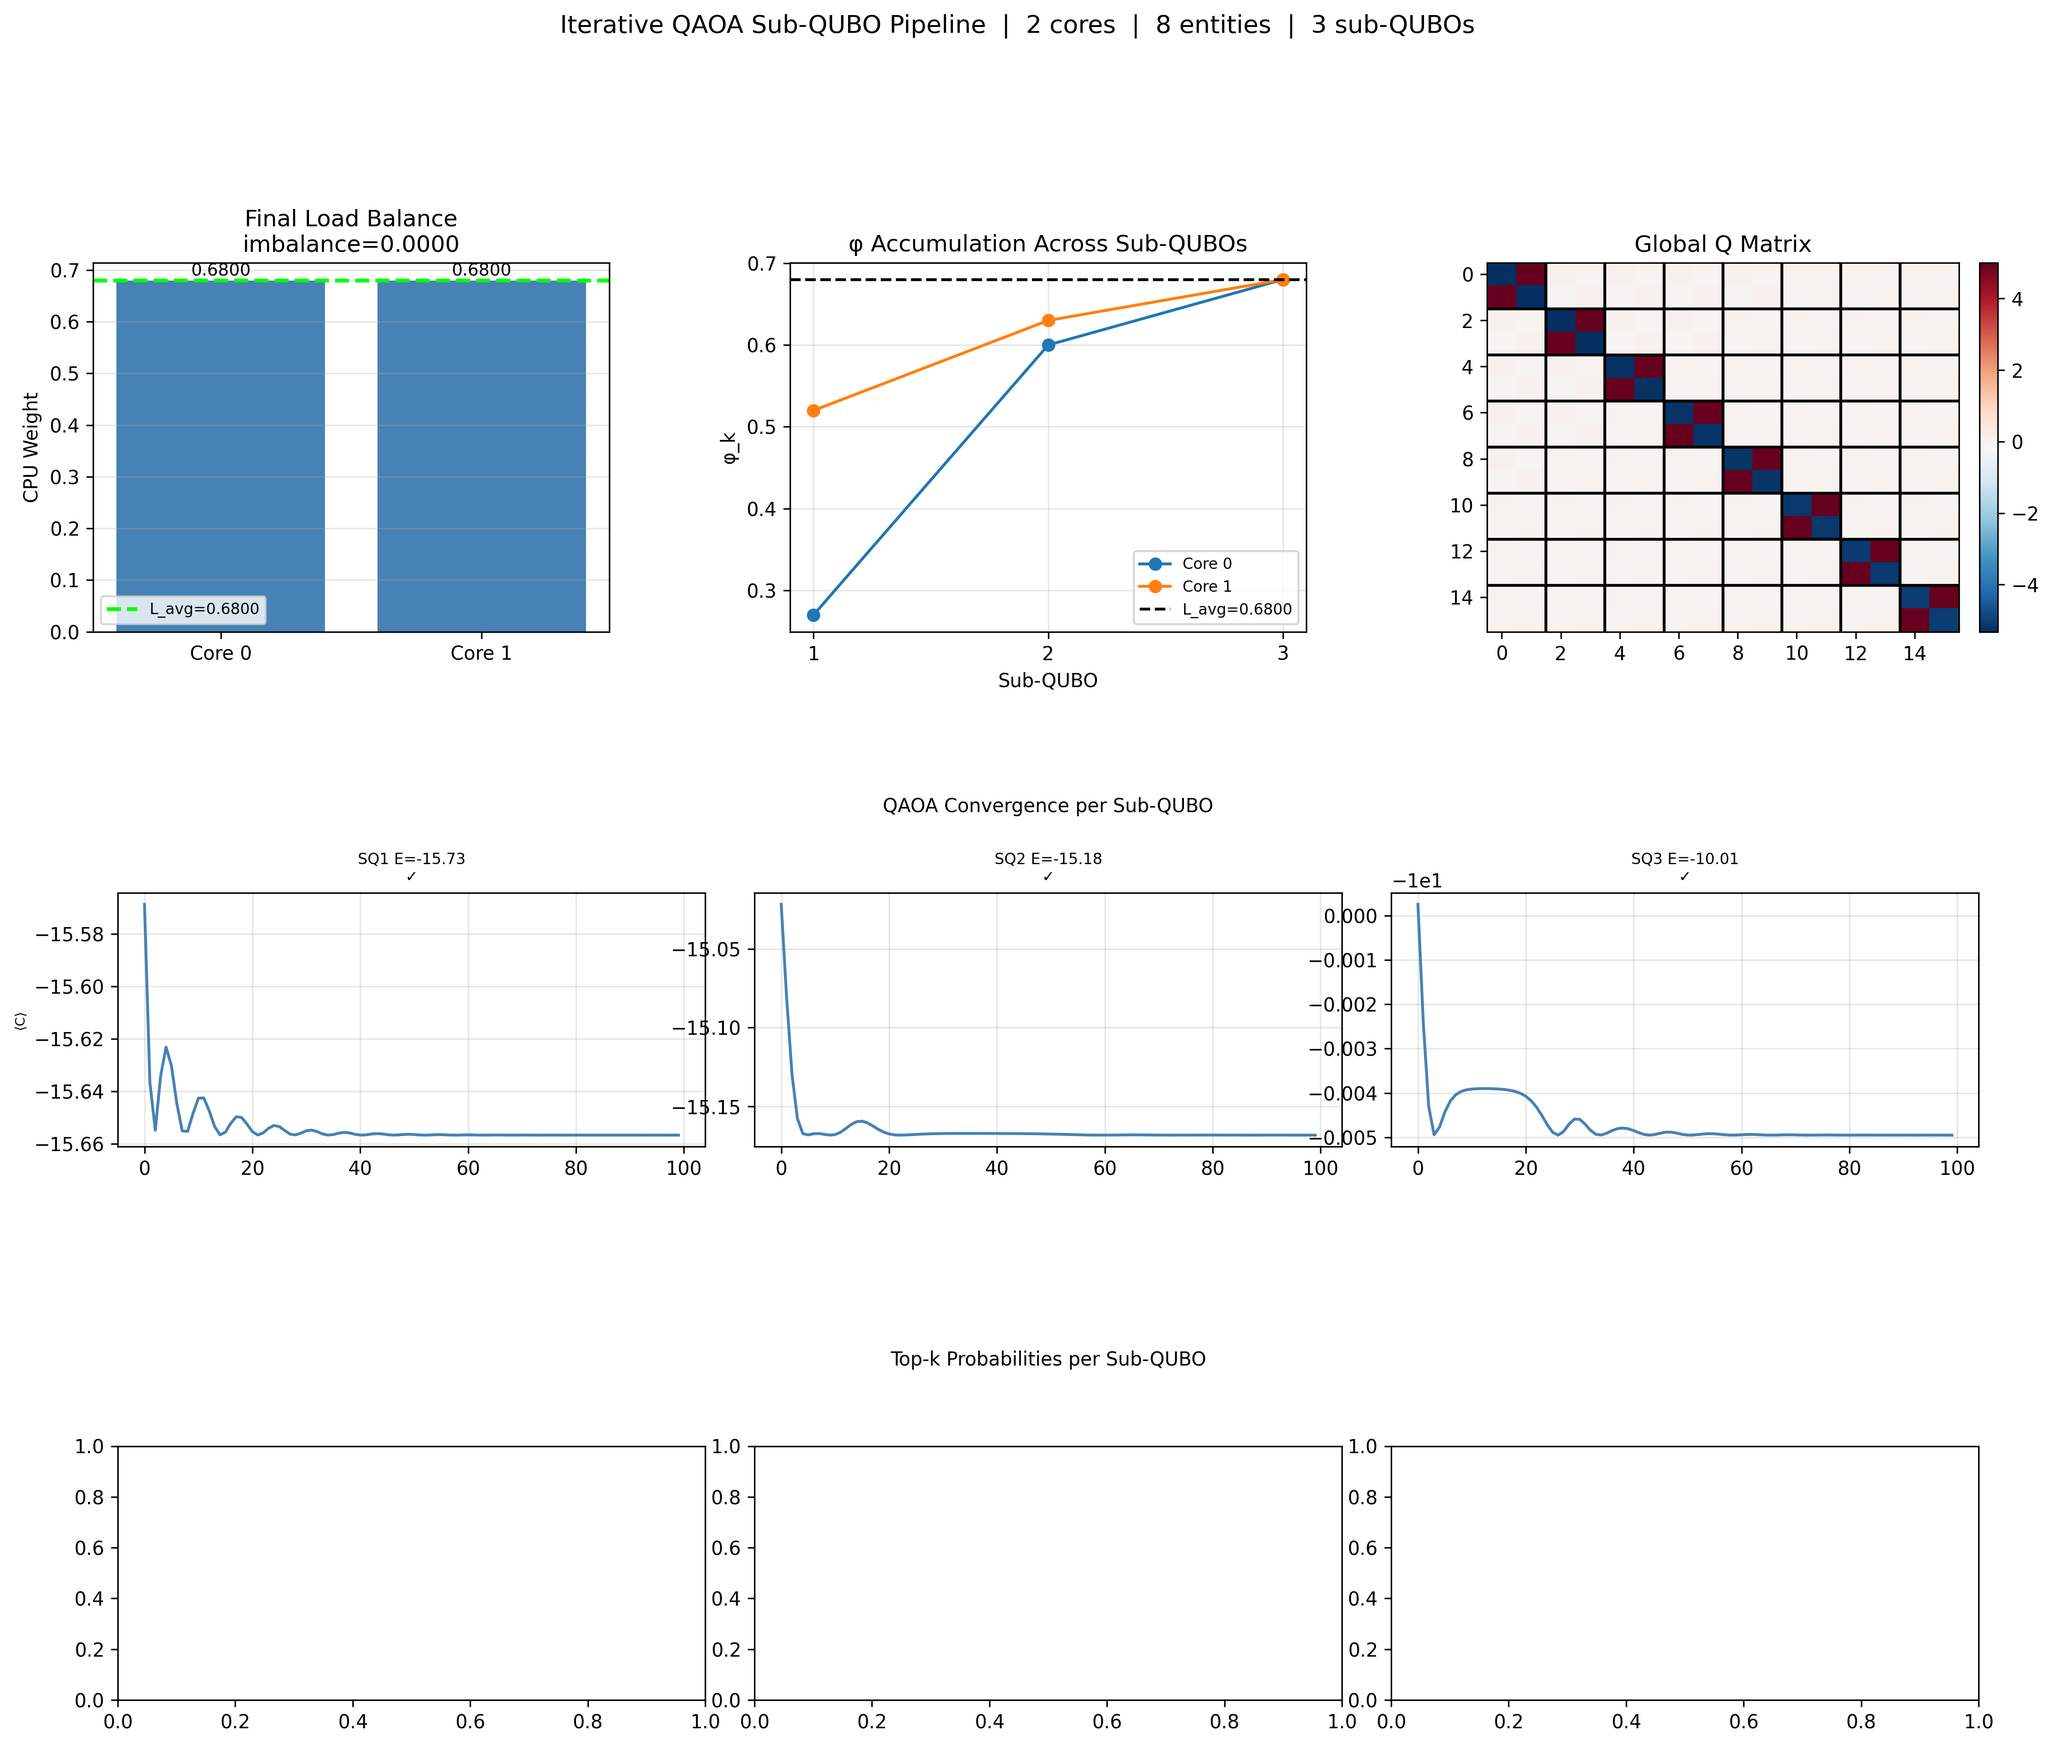
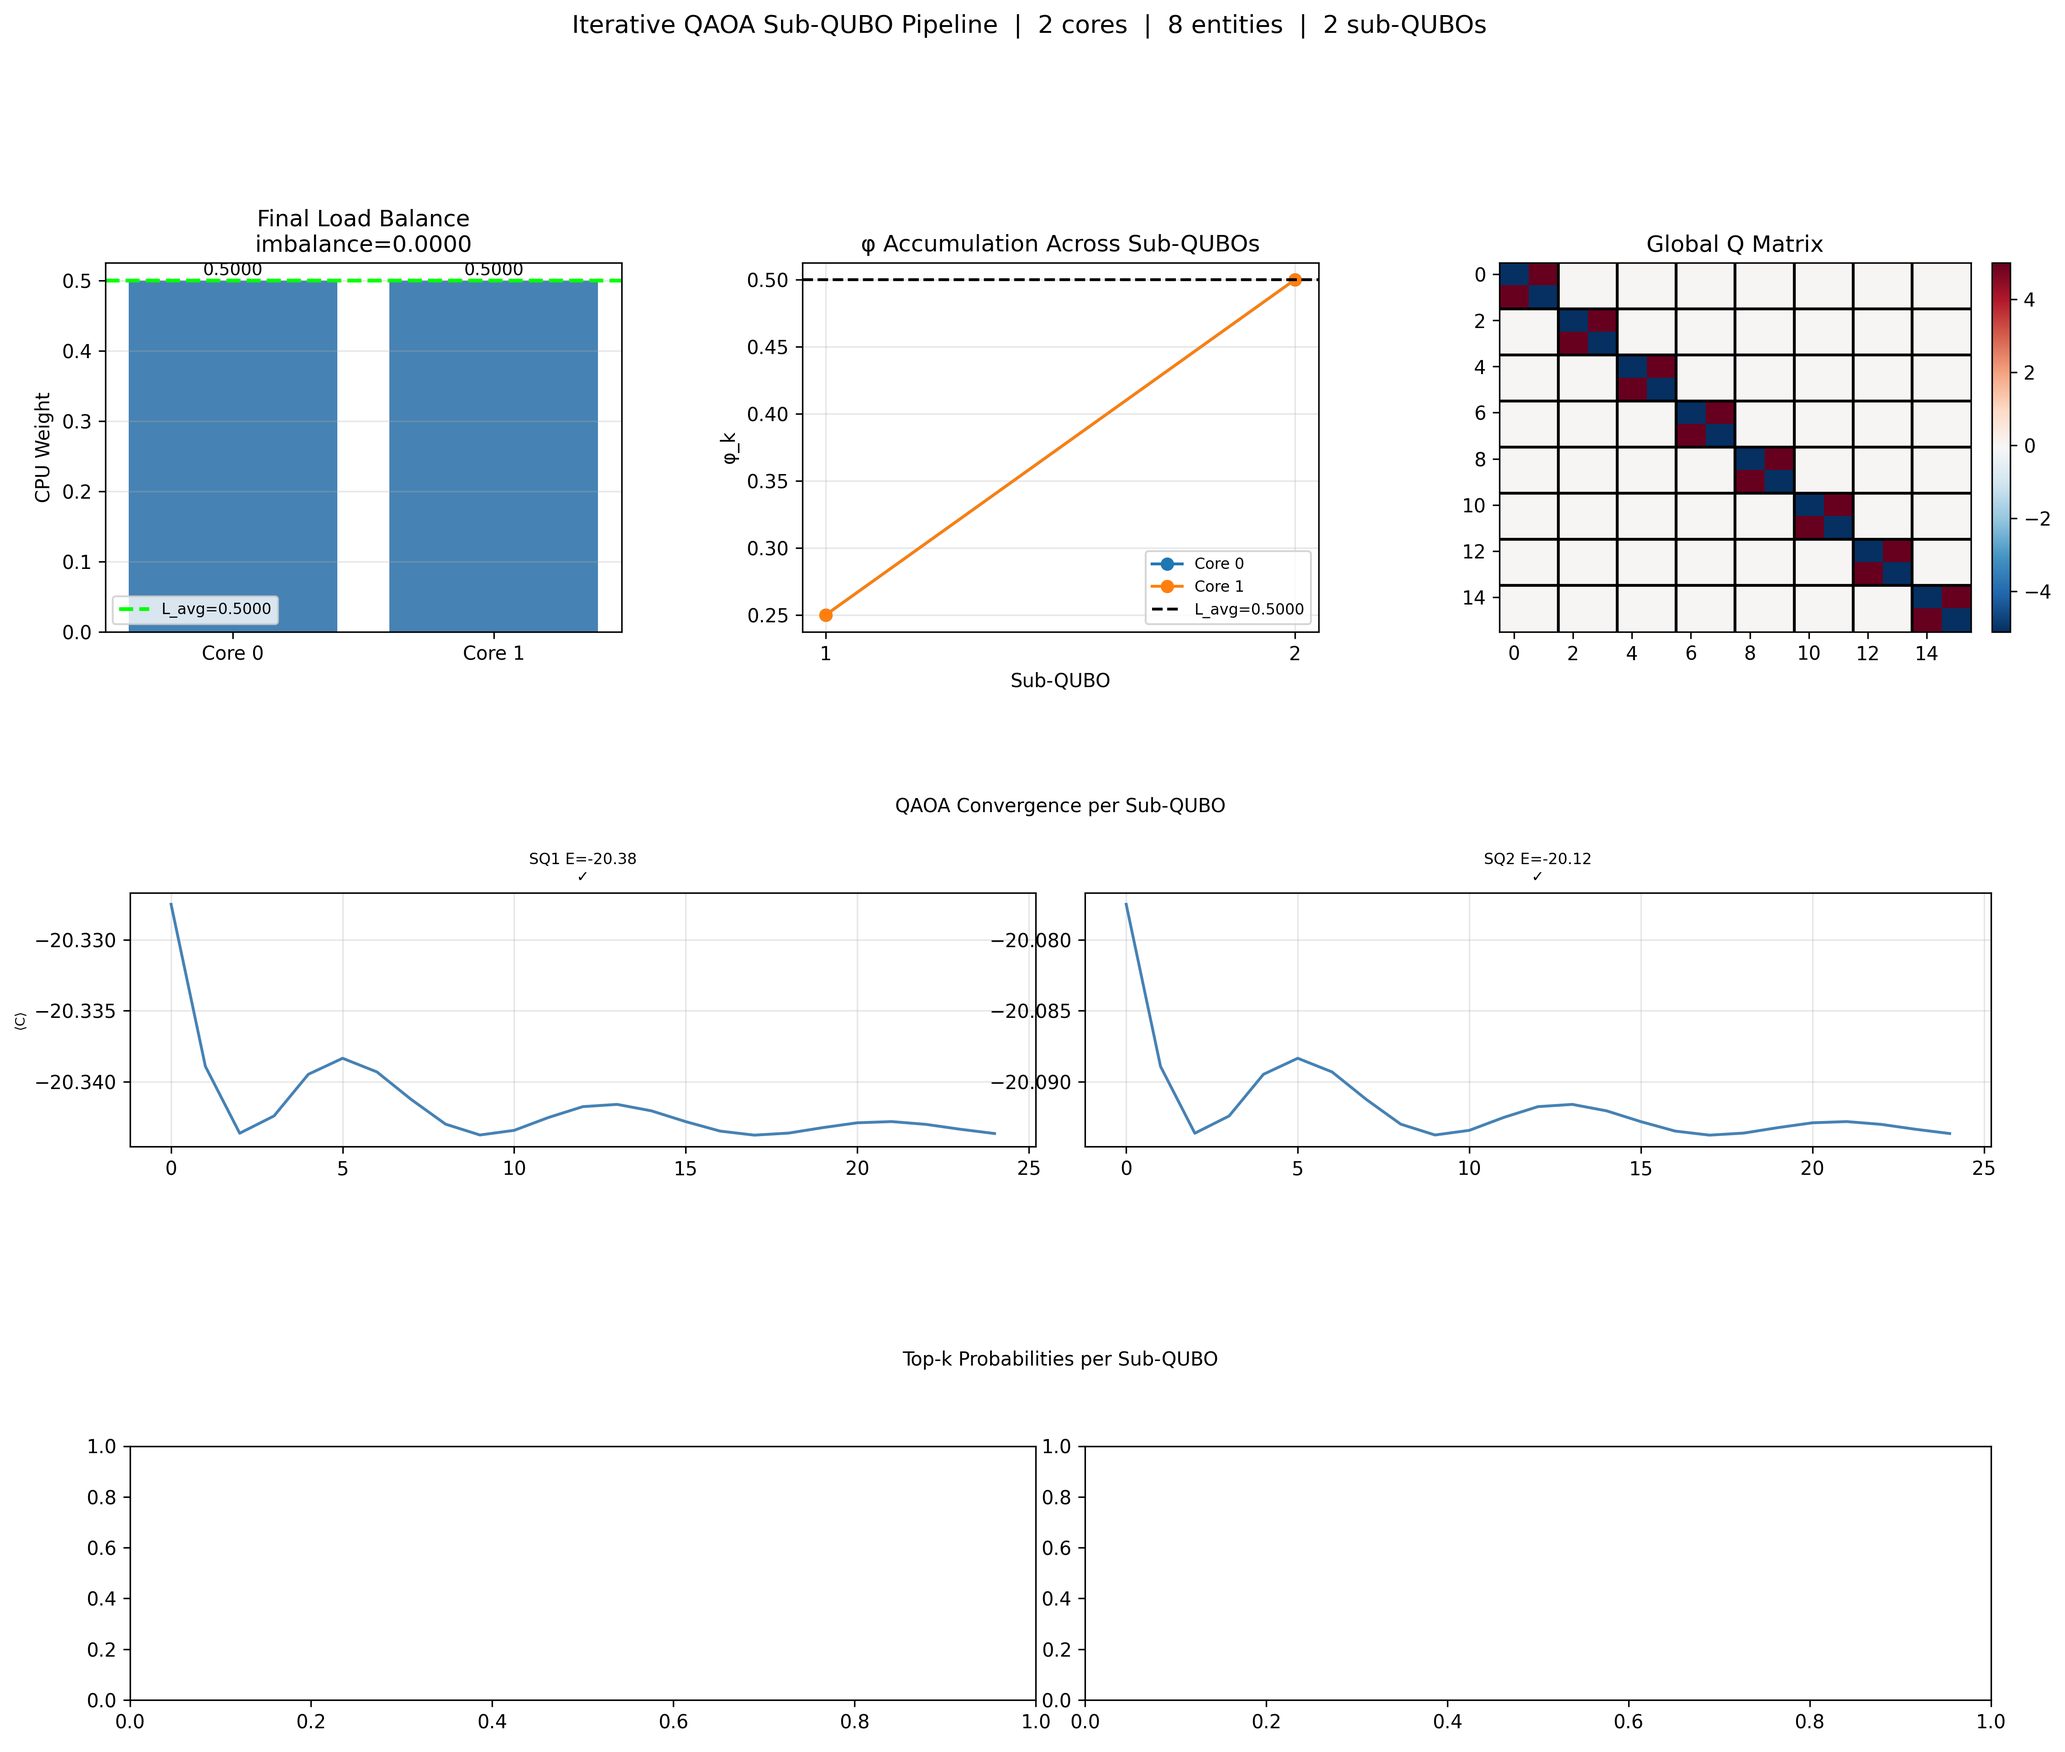
relatório

diff --git a/report/adaptive-clustering.tex b/report/adaptive-clustering.tex
@@ -306,7 +306,7 @@ Para o exemplo considerado, são obtidos os seguintes \textit{bundles}:
 
 \begin{equation}
 \begin{aligned}
-    B_0 &= \{p_1,p_2\}, &
+    B_0 = \{p_1,p_2\}, &
     B_1 &= \{p_3,p_4\},\\
     B_2 &= \{p_5,p_6\}, &
     B_3 &= \{p_7,p_8\}.
